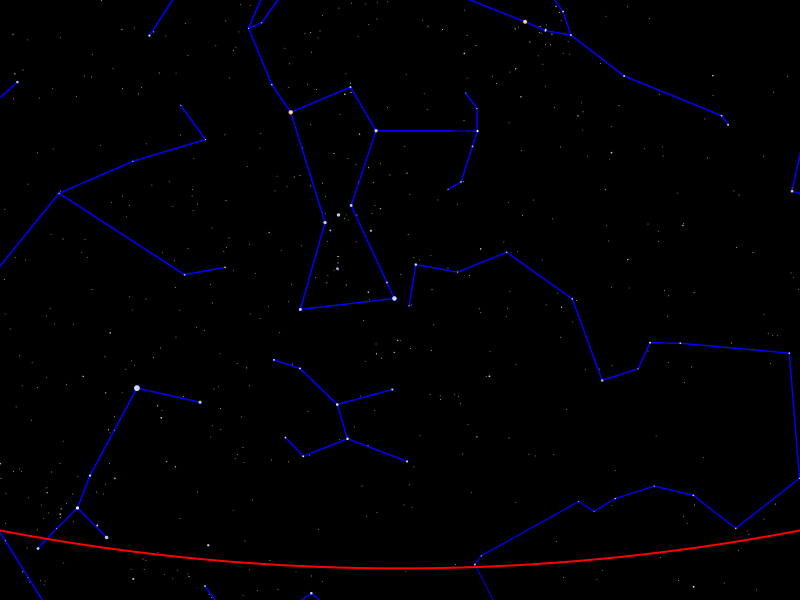
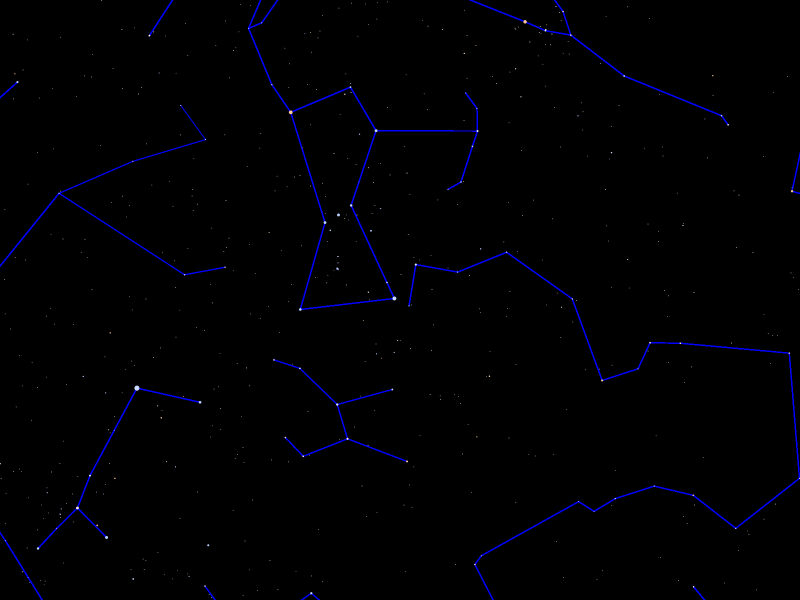
étape 8 rayon ok

diff --git a/src/ch/epfl/rigel/gui/SkyCanvasPainter.java b/src/ch/epfl/rigel/gui/SkyCanvasPainter.java
@@ -7,6 +7,7 @@ import ch.epfl.rigel.coordinates.HorizontalCoordinates;
 import ch.epfl.rigel.coordinates.StereographicProjection;
 import ch.epfl.rigel.math.Angle;
 import ch.epfl.rigel.math.ClosedInterval;
+import javafx.geometry.Point2D;
 import javafx.scene.canvas.Canvas;
 import javafx.scene.canvas.GraphicsContext;
 import javafx.scene.paint.Color;
@@ -41,9 +42,11 @@ public final class SkyCanvasPainter {
         double[] transformedCoordinates = sky.starPositions();
         planeToCanvas.transform2DPoints(transformedCoordinates, 0, transformedCoordinates, 0, transformedCoordinates.length/2);
         for(int i=0; i<sky.stars().size(); ++i){
-            double radius = 3000*size(sky.stars().get(i).magnitude(), projection)/2; //*2600??????
+            double radius = size(sky.stars().get(i).magnitude(), projection)/2;
+            Point2D point = planeToCanvas.deltaTransform(radius, radius);
+            double trueRadius = Math.abs(point.getX()) + Math.abs(point.getY());
             ctx.setFill(BlackBodyColor.colorForTemperature(sky.stars().get(i).colorTemperature()));
-            ctx.fillOval(transformedCoordinates[2*i]-radius/2, transformedCoordinates[2*i+1]-radius/2, radius, radius);
+            ctx.fillOval(transformedCoordinates[2*i]-trueRadius/2, transformedCoordinates[2*i+1]-trueRadius/2, trueRadius, trueRadius);
         }
     }
 
@@ -52,29 +55,35 @@ public final class SkyCanvasPainter {
         double[] transformedCoordinates = sky.planetPositions();
         planeToCanvas.transform2DPoints(transformedCoordinates, 0, transformedCoordinates, 0, transformedCoordinates.length/2);
         for(int i=0; i<sky.planets().size(); ++i){
-            final double radius = 3000*size(sky.planets().get(i).magnitude(), projection)/2;
-            ctx.fillOval(transformedCoordinates[2*i]-radius/2, transformedCoordinates[2*i+1]-radius/2, radius, radius);
+            final double radius = size(sky.planets().get(i).magnitude(), projection)/2;
+            Point2D point = planeToCanvas.deltaTransform(radius, radius);
+            double trueRadius = Math.abs(point.getX()) + Math.abs(point.getY());
+            ctx.fillOval(transformedCoordinates[2*i]-trueRadius/2, transformedCoordinates[2*i+1]-trueRadius/2, trueRadius, trueRadius);
         }
     }
 
     public void drawSun(ObservedSky sky, StereographicProjection projection, Transform planeToCanvas){
         double[] transformedCoordinates = {sky.sunPosition().x(), sky.sunPosition().y()};
         planeToCanvas.transform2DPoints(transformedCoordinates, 0, transformedCoordinates, 0, 1);
-        final double radius = 3000*projection.applyToAngle(Angle.ofDeg(0.5))/2;
+        final double radius = projection.applyToAngle(Angle.ofDeg(0.5))/2;
+        Point2D point = planeToCanvas.deltaTransform(radius, radius);
+        double trueRadius = Math.abs(point.getX()) + Math.abs(point.getY());
         ctx.setFill(opaqueYellow);
-        ctx.fillOval(transformedCoordinates[0]-radius/2, transformedCoordinates[1]-radius/2, 2.2*radius, 2.2*radius);
+        ctx.fillOval(transformedCoordinates[0]-2.2*trueRadius/2, transformedCoordinates[1]-2.2*trueRadius/2, 2.2*trueRadius, 2.2*trueRadius);
         ctx.setFill(yellow);
-        ctx.fillOval(transformedCoordinates[0]-radius/2, transformedCoordinates[1]-radius/2, 2*radius, 2*radius);
+        ctx.fillOval(transformedCoordinates[0]-2*trueRadius/2, transformedCoordinates[1]-2*trueRadius/2, 2*trueRadius, 2*trueRadius);
         ctx.setFill(white);
-        ctx.fillOval(transformedCoordinates[0]-radius/2, transformedCoordinates[1]-radius/2, radius, radius);
+        ctx.fillOval(transformedCoordinates[0]-radius/2, transformedCoordinates[1]-trueRadius/2, trueRadius, trueRadius);
     }
 
     public void drawMoon(ObservedSky sky, StereographicProjection projection, Transform planeToCanvas){
         double[] transformedCoordinates = {sky.moonPosition().x(), sky.moonPosition().y()};
         planeToCanvas.transform2DPoints(transformedCoordinates, 0, transformedCoordinates, 0, 1);
-        final double radius = 3000*projection.applyToAngle(Angle.ofDeg(0.5))/2;
+        final double radius = projection.applyToAngle(Angle.ofDeg(0.5))/2;
+        Point2D point = planeToCanvas.deltaTransform(radius, radius);
+        double trueRadius = Math.abs(point.getX()) + Math.abs(point.getY());
         ctx.setFill(white);
-        ctx.fillOval(transformedCoordinates[0]-radius/2, transformedCoordinates[1]-radius/2, radius, radius);
+        ctx.fillOval(transformedCoordinates[0]-trueRadius/2, transformedCoordinates[1]-trueRadius/2, radius, radius);
     }
 
     public void drawAsterism(ObservedSky sky, StereographicProjection projection, Transform planeToCanvas){
@@ -106,12 +115,11 @@ public final class SkyCanvasPainter {
         ctx.setLineWidth(2);
         CartesianCoordinates coordinates = projection.circleCenterForParallel(HorizontalCoordinates.of(0,0));
         double[] transformedCoordinates = {coordinates.x(), coordinates.y()};
-        System.out.println(transformedCoordinates[0]);
-        System.out.println(transformedCoordinates[1]);
         planeToCanvas.transform2DPoints(transformedCoordinates, 0, transformedCoordinates, 0, 1);
-        //double r = projection.circleRadiusForParallel(HorizontalCoordinates.of(0,0));
-        double radius = 4250;
-        ctx.strokeOval(transformedCoordinates[0]-radius/2, transformedCoordinates[1]-radius/2, radius, radius);
+        double radius = projection.circleRadiusForParallel(HorizontalCoordinates.of(0,0));
+        Point2D point = planeToCanvas.deltaTransform(radius, radius);
+        double trueRadius = Math.abs(point.getX()) + Math.abs(point.getY());
+        ctx.strokeOval(transformedCoordinates[0]-trueRadius/2, transformedCoordinates[1]-trueRadius/2, trueRadius, trueRadius);
     }
 
 

diff --git a/test/ch/epfl/rigel/gui/SkyCanvasPainterTest.java b/test/ch/epfl/rigel/gui/SkyCanvasPainterTest.java
@@ -62,9 +62,9 @@ public final class SkyCanvasPainterTest extends Application {
             painter.clear();
             painter.drawAsterism(sky, projection, planeToCanvas);
             painter.drawStars(sky, projection, planeToCanvas);
-            painter.drawPlanets(sky, projection, planeToCanvas);
-            painter.drawSun(sky, projection, planeToCanvas);
-            painter.drawMoon(sky, projection, planeToCanvas);
+            //painter.drawPlanets(sky, projection, planeToCanvas);
+            //painter.drawSun(sky, projection, planeToCanvas);
+            //painter.drawMoon(sky, projection, planeToCanvas);
             painter.drawHorizon(projection, planeToCanvas, projCenter);
 
             WritableImage fxImage =
